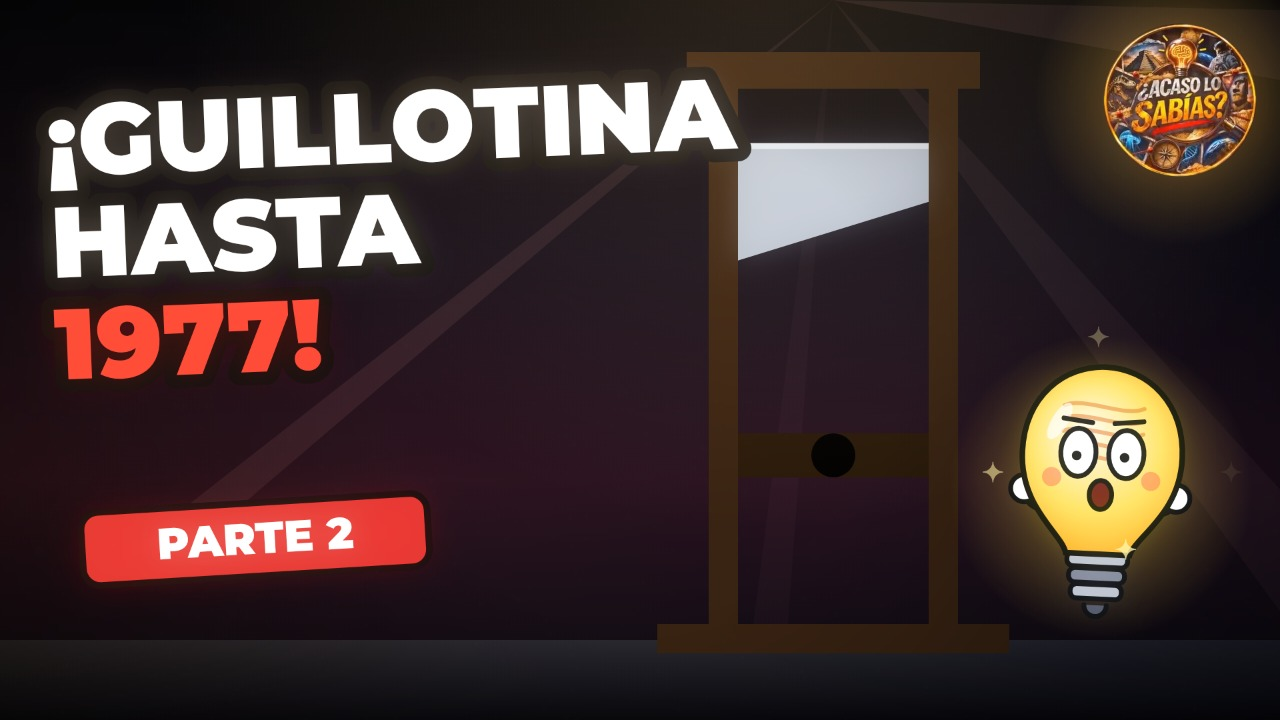
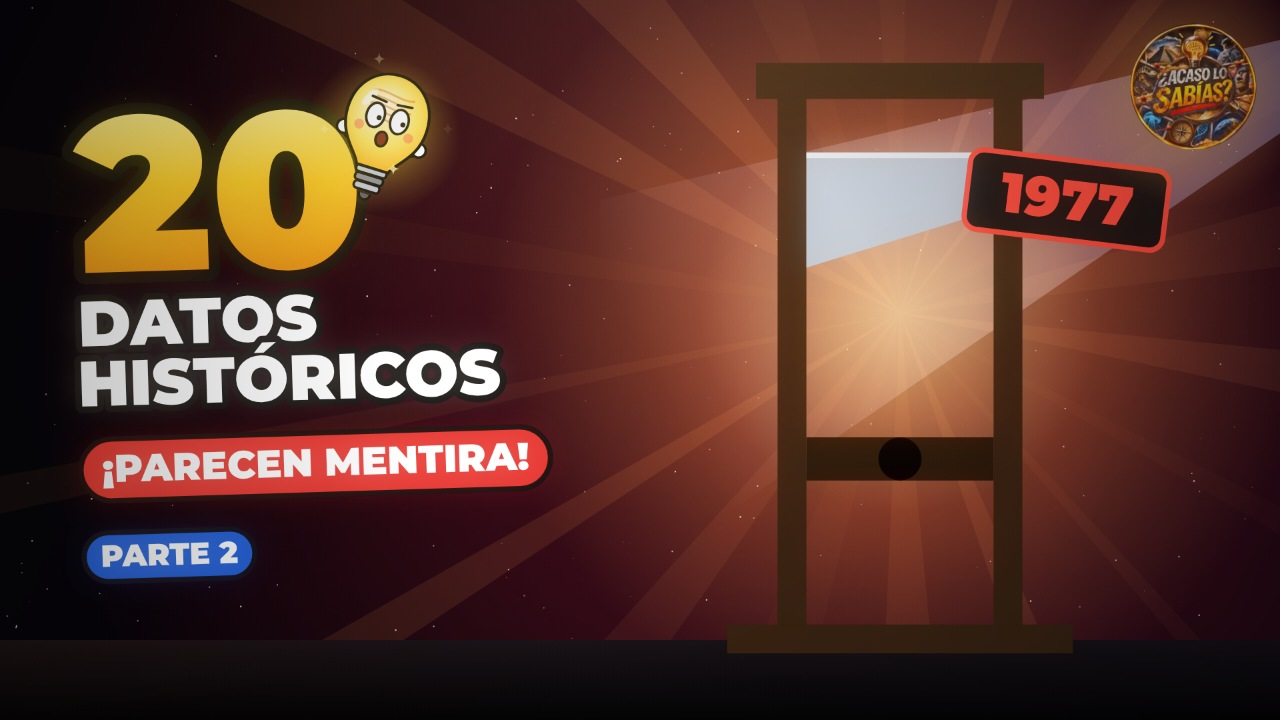
Miniaturas rediseñadas: número gigante, etiqueta roja, protagonista con brillo y Chispa
Claude-Session: https://claude.ai/code/session_01RCiXDibnj7NkNBXDTnxzmV

diff --git a/video-historia/motor2d/miniaturas.js b/video-historia/motor2d/miniaturas.js
@@ -13,14 +13,39 @@ const { chromium } = require('playwright'); const fs = require('fs'), path = req
       X.lineWidth = size * .26; X.strokeStyle = '#111'; X.strokeText(s, 0, yy); X.fillStyle = col; X.fillText(s, 0, yy); }); X.restore(); }
   function badge(s, x, y) { X.save(); X.translate(x, y); X.rotate(-.06); panel(0, 0, 520, 110, 26, '#e53935', '#111', 10); txt(s, 260, 57, 66, '#fff', { w: 900 }); X.restore(); }
   function corner() { drawLogo(1770, 150, 230); }
+  function stage(col1, col2, fx, fy) { const g = X.createRadialGradient(fx, fy, 50, fx, fy, 1300); g.addColorStop(0, col1); g.addColorStop(1, col2); X.fillStyle = g; X.fillRect(0, 0, W, H);
+    stars(260, 9, 2); rays(fx, fy, '#ffb347', 3, 18, 1400, .09); glow(fx, fy, 620, '#ffb347', .55); glow(fx, fy, 300, '#fff1c0', .35); }
+  function pill(s, x, y, size, fill) { X.save(); X.font = '900 ' + size + 'px Mont'; const w = X.measureText(s).width + size * 1.1; X.restore();
+    X.save(); X.translate(x, y); X.rotate(-.03); panel(0, 0, w, size * 1.6, size * .8, fill, '#111', 8); txt(s, w / 2, size * .82, size, '#fff', { w: 900 }); X.restore(); return w; }
+  function block(n) { // bloque de texto común de la serie
+    X.save(); X.translate(110, 110); X.rotate(-.03);
+    X.font = '900 330px Mont'; X.textBaseline = 'alphabetic'; X.lineJoin = 'round'; X.lineWidth = 34; X.strokeStyle = '#111'; X.strokeText('20', 0, 300);
+    const g = X.createLinearGradient(0, 40, 0, 300); g.addColorStop(0, '#fff3a0'); g.addColorStop(.5, '#ffc42e'); g.addColorStop(1, '#e8901a'); X.fillStyle = g; X.fillText('20', 0, 300);
+    X.restore();
+    chispa(570, 220, .62, { expr: 'surprised', look: 1, tilt: .25 });
+    [['DATOS', 520], ['HISTÓRICOS', 610]].forEach(([s, y]) => { X.save(); X.translate(118, y); X.rotate(-.03); X.font = '900 96px Mont'; X.lineJoin = 'round'; X.lineWidth = 20; X.strokeStyle = '#111'; X.strokeText(s, 0, 0); X.fillStyle = '#fff'; X.fillText(s, 0, 0); X.restore(); });
+    pill('¡PARECEN MENTIRA!', 120, 660, 58, '#e53935');
+    pill('PARTE ' + n, 125, 800, 46, '#1e5fd8');
+  }
   window.thumb = async (n) => { TL = { vid: 'v' + n, title: '', datos: [], outro: 1e9, chunks: [], scenes: [] }; await document.fonts.load('900 40px Mont'); LOGO = new Image(); LOGO.src = '${logo}'; await LOGO.decode(); NOW = 1.3;
-    if (n === 1) { S.emu_war(1.8, 6); X.fillStyle = 'rgba(0,0,0,.25)'; X.fillRect(0, 0, W, H);
-      emu(1330, 1010, 2.3, 1, -1); person(300, 1120, 760, { hat: 'slouch', expr: 'surprised', arm: 1.1 });
-      big([['¡PERDIERON', '#ffffff'], ['CONTRA', '#ffffff'], ['PÁJAROS!', '#ffc42e']], 560, 200, 140, -.04); badge('PARTE 1', 600, 720); chispa(1720, 820, 1.0, { expr: 'surprised', look: -1 }); }
-    else { sky(['#05060a', '#14101c', '#2a1420', '#0a0b10']); rays(1250, 0, '#ffb0a0', 2, 8, 1300, .1); ground(960, '#2a2a30', '#0a0a0e'); guillotineDraw(1250, 980, 1.1, 1); vignette(.5);
-      big([['¡GUILLOTINA', '#ffffff'], ['HASTA', '#ffffff'], ['1977!', '#ff4a3a']], 70, 220, 150, -.04); badge('PARTE 2', 120, 770); chispa(1650, 760, 1.2, { expr: 'surprised', look: -1 }); }
-    corner(); finish(5);
-    const c2 = document.createElement('canvas'); c2.width = 1280; c2.height = 720; c2.getContext('2d').drawImage(document.getElementById('c'), 0, 0, 1280, 720); return c2.toDataURL('image/jpeg', .92); };
+    if (n === 1) { stage('#7a3a12', '#0a0608', 1380, 520); hills(900, 60, '#2a1608', .5, 1); ground(900, '#3a2210', '#0a0604');
+      for (let i = 0; i < 5; i++) emu(1030 + i * 190, 905 - (i % 2) * 15, .55, i * 1.3, -1);
+      emu(1400, 1000, 2.7, 1.2, -1);
+      // casco militar del emú vencedor
+      const s = 2.7, hx = 1400 - 60 * s, hy = 1000 - (210 + Math.abs(Math.cos(1.2)) * 8) * s; X.save(); X.translate(hx, hy - 16 * s); X.rotate(-.15);
+      X.beginPath(); X.arc(0, 0, 27 * s, Math.PI, 0); X.closePath(); X.fillStyle = '#5b6b2a'; X.fill(); X.lineWidth = 9; X.strokeStyle = '#111'; X.stroke();
+      X.beginPath(); X.ellipse(0, 0, 40 * s, 7 * s, 0, 0, 7); X.fillStyle = '#4a5822'; X.fill(); X.stroke(); X.restore();
+      // medalla
+      X.save(); X.translate(1440, 760); X.fillStyle = '#c0302b'; X.fillRect(-14, -60, 28, 50); coin(0, 10, 34, 0); X.restore();
+    }
+    else { stage('#5a1020', '#05040a', 1350, 470);
+      X.save(); X.globalCompositeOperation = 'lighter'; const g = X.createLinearGradient(1900, 120, 1000, 600); g.addColorStop(0, 'rgba(160,200,255,.4)'); g.addColorStop(1, 'rgba(160,200,255,0)'); X.fillStyle = g; X.beginPath(); X.moveTo(1920, 60); X.lineTo(1920, 200); X.lineTo(900, 900); X.lineTo(900, 300); X.fill(); X.restore();
+      ground(960, '#1a1418', '#050405'); guillotineDraw(1350, 980, 1.08, 1);
+      X.save(); X.translate(1600, 300); X.rotate(.12); panel(-150, -60, 300, 120, 20, '#111', '#ff4a3a', 8); txt('1977', 0, 4, 84, '#ff4a3a', { w: 900 }); X.restore(); }
+    // limpiar la burbuja si no hay
+    if (n === 1) { X.save(); X.fillStyle = '#fff'; X.beginPath(); X.roundRect(1330, 230, 380, 110, 30); X.fill(); X.lineWidth = 8; X.strokeStyle = '#111'; X.stroke(); X.beginPath(); X.moveTo(1400, 335); X.lineTo(1380, 390); X.lineTo(1450, 338); X.fillStyle = '#fff'; X.fill(); X.stroke(); txt('¡GANAMOS!', 1520, 286, 56, '#111', { w: 900 }); X.restore(); }
+    block(n); drawLogo(1790, 130, 190); finish(5); vignette(.35);
+    const c2 = document.createElement('canvas'); c2.width = 1280; c2.height = 720; c2.getContext('2d').drawImage(document.getElementById('c'), 0, 0, 1280, 720); return c2.toDataURL('image/jpeg', .93); };
   </script></body></html>`);
   p.on('pageerror', e => { console.error(e.message); process.exit(1); });
   for (const n of [1, 2]) { const d = await p.evaluate(n => thumb(n), n); fs.writeFileSync(path.join(D, `../miniatura_parte${n}.jpg`), Buffer.from(d.split(',')[1], 'base64')); }
